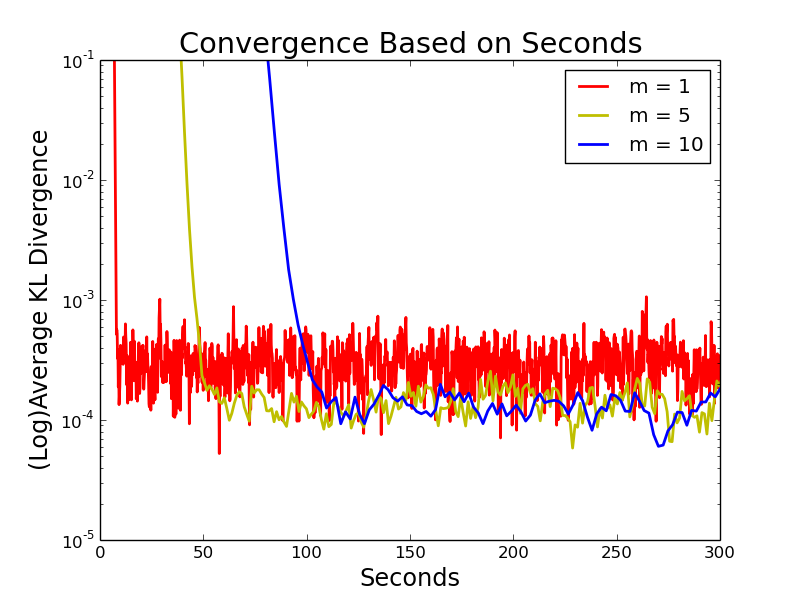
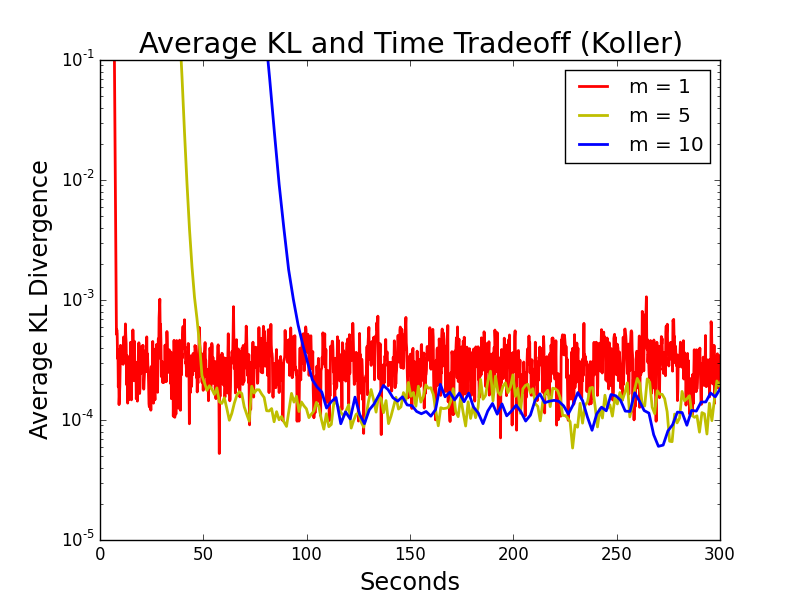
Fixed Figures 3 and 5 to say Koller

diff --git a/data_and_scripts/Figure3_Material/draw.py b/data_and_scripts/Figure3_Material/draw.py
@@ -63,7 +63,7 @@ for i in xrange(3):
 
 # Be sure to increase the font sizes! I might also have to experiment with a lot of other settings.
 plt.legend(loc='upper right', ncol=1)
-plt.title('Average KL Divergence on Student Data', fontsize='xx-large')
+plt.title('Average KL Divergence (Koller)', fontsize='xx-large')
 plt.yscale('log')
 plt.xlabel('Number of Passes Over the Data', fontsize='x-large')
 plt.ylabel('Average KL Divergence', fontsize='x-large')
@@ -125,10 +125,10 @@ for i in xrange(3):
 
 # Be sure to increase the font sizes! I might also have to experiment with a lot of other settings.
 plt.legend(loc='upper right', ncol=1)
-plt.title('Convergence Based on Seconds', fontsize='xx-large')
+plt.title('Average KL and Time Tradeoff (Koller)', fontsize='xx-large')
 plt.yscale('log')
 plt.xlabel('Seconds', fontsize='x-large')
-plt.ylabel('(Log)Average KL Divergence', fontsize='x-large')
+plt.ylabel('Average KL Divergence', fontsize='x-large')
 plt.xlim(0, 300)
 plt.ylim(1e-5, 0.1)
 plt.savefig('fig_kl_div_25_50_perc_jags_time.png')

diff --git a/iclr2016_conference.tex b/iclr2016_conference.tex
@@ -575,16 +575,12 @@ things (e.g., website URLs) and is more consistent.}
 
 
 
-
-
-
-
-%% APPENDIX
-\clearpage
-\appendix
-
-\textbf{I expect that we will use eight pages for text, plus the ninth page for references. Then the
-remaining material (if any) will go here.}
+%%% APPENDIX
+%\clearpage
+%\appendix
+%
+%\textbf{I expect that we will use eight pages for text, plus the ninth page for references. Then the
+%remaining material (if any) will go here.}
 
 
 
